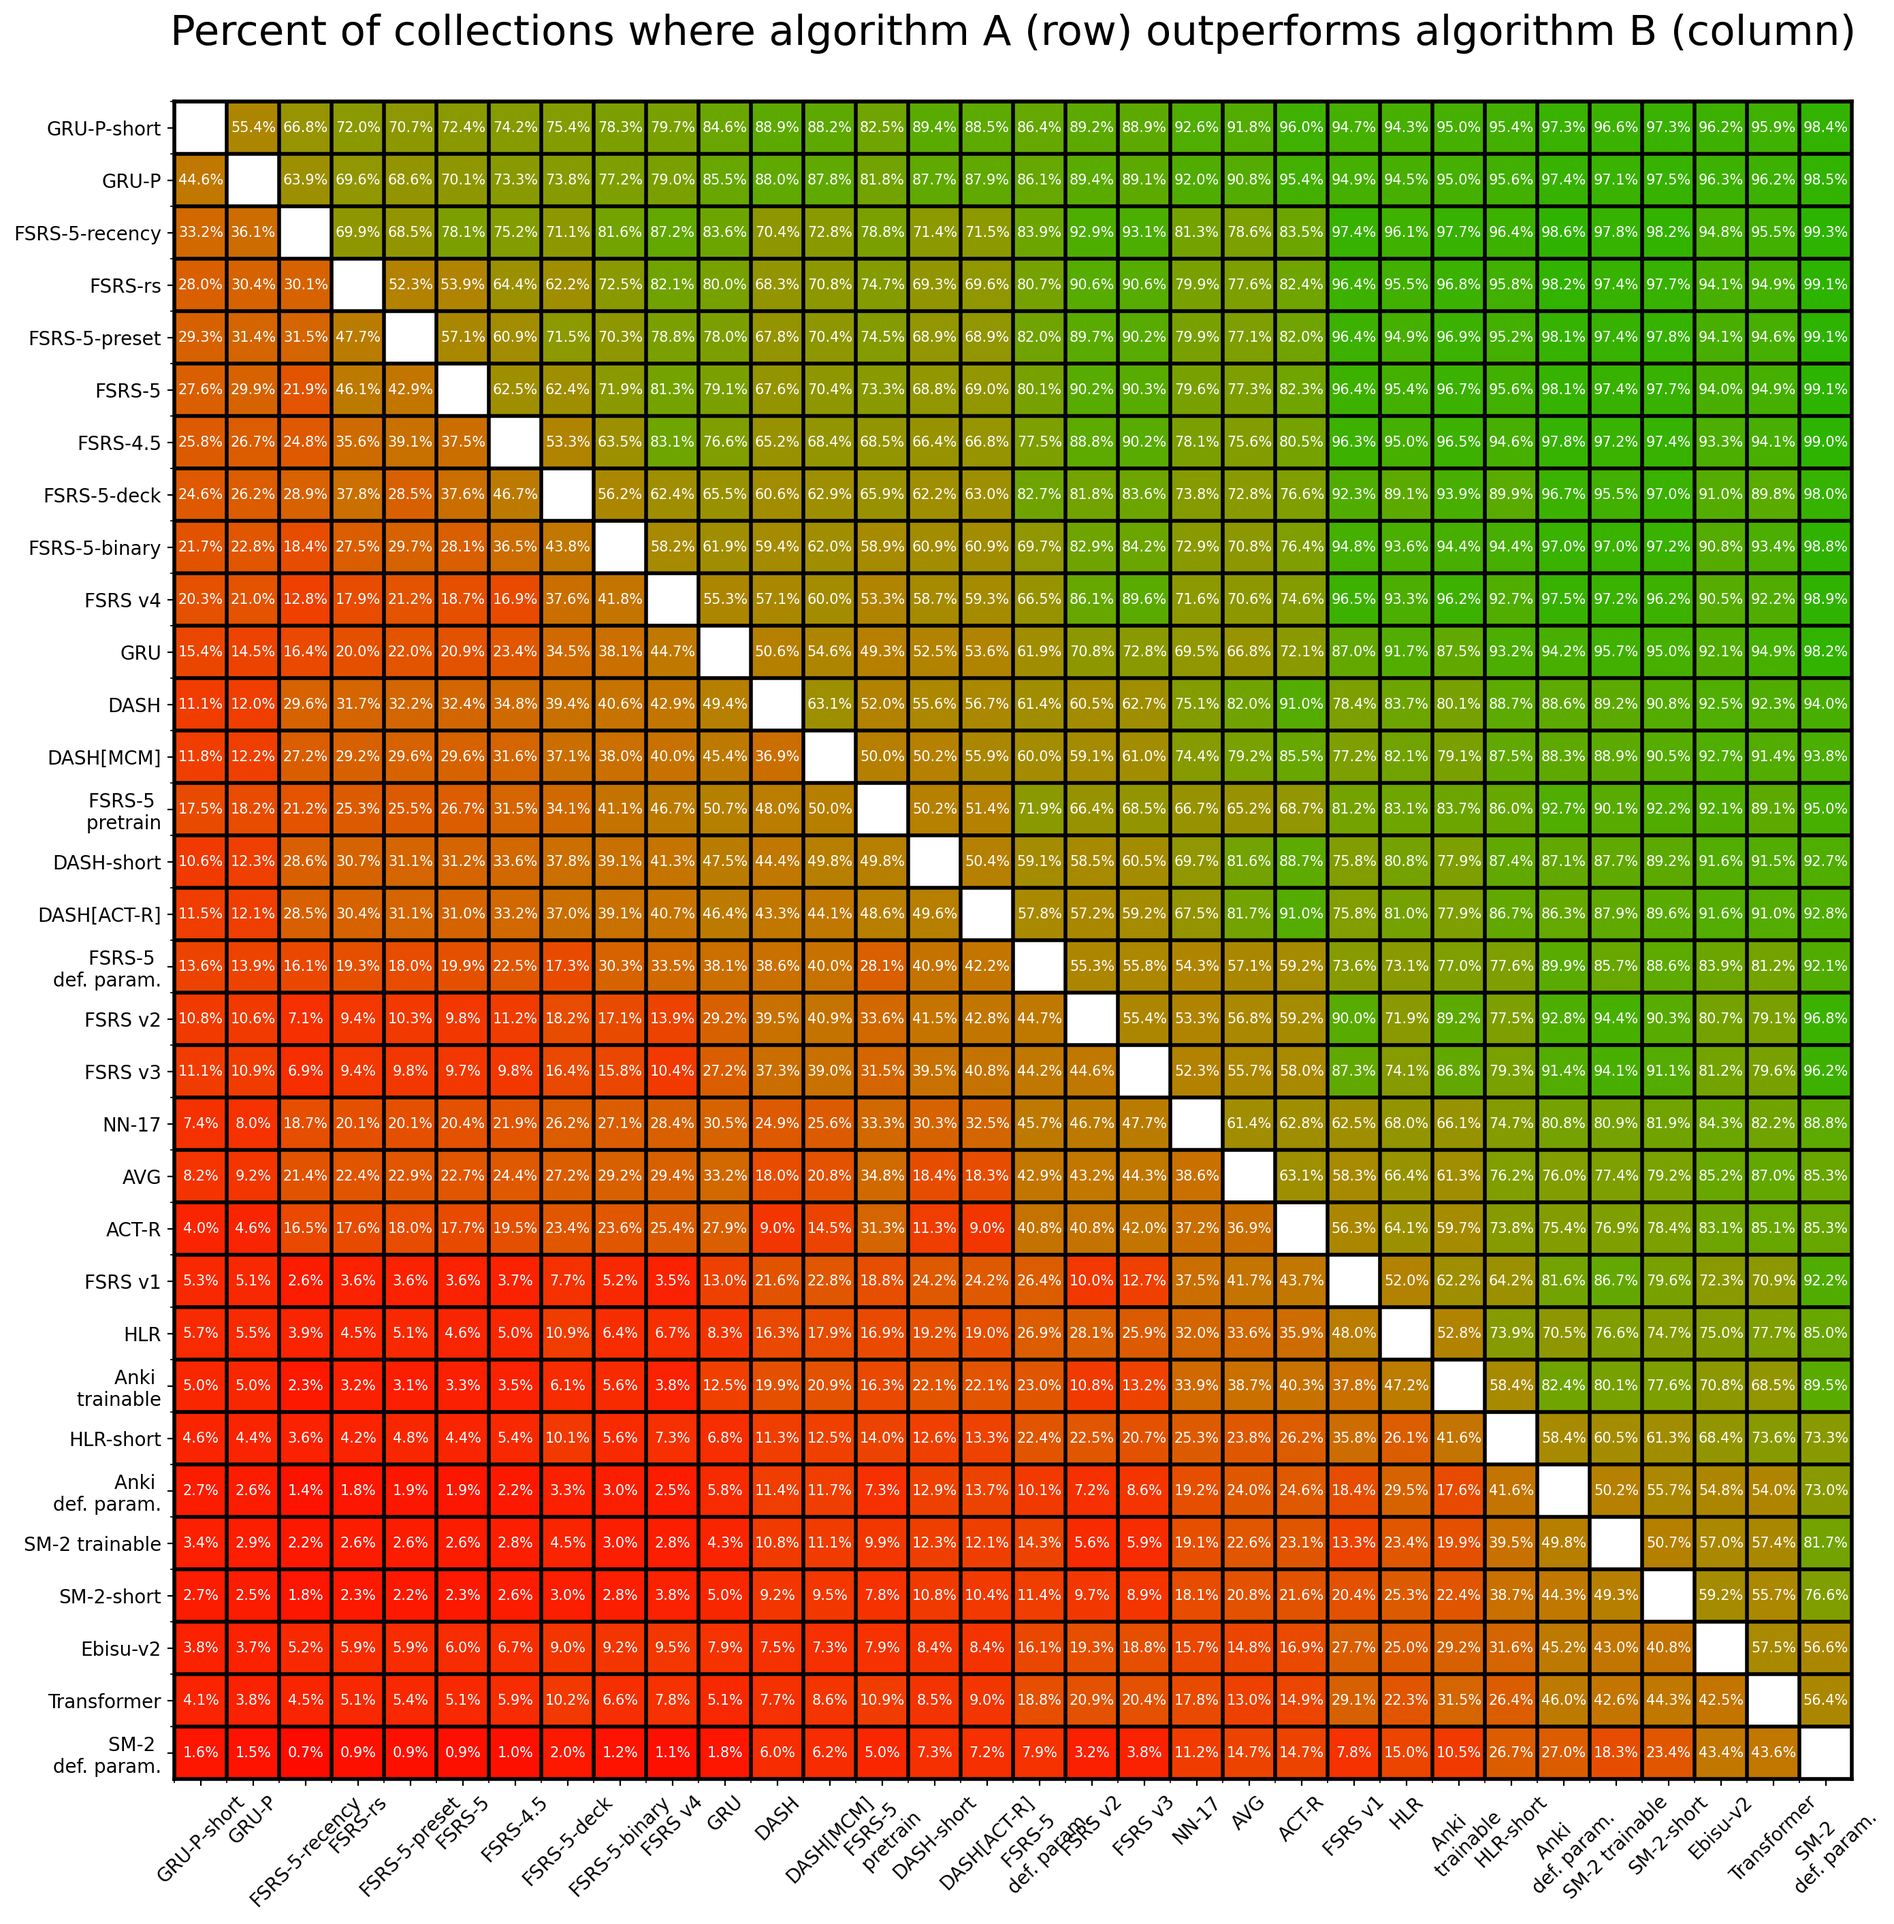
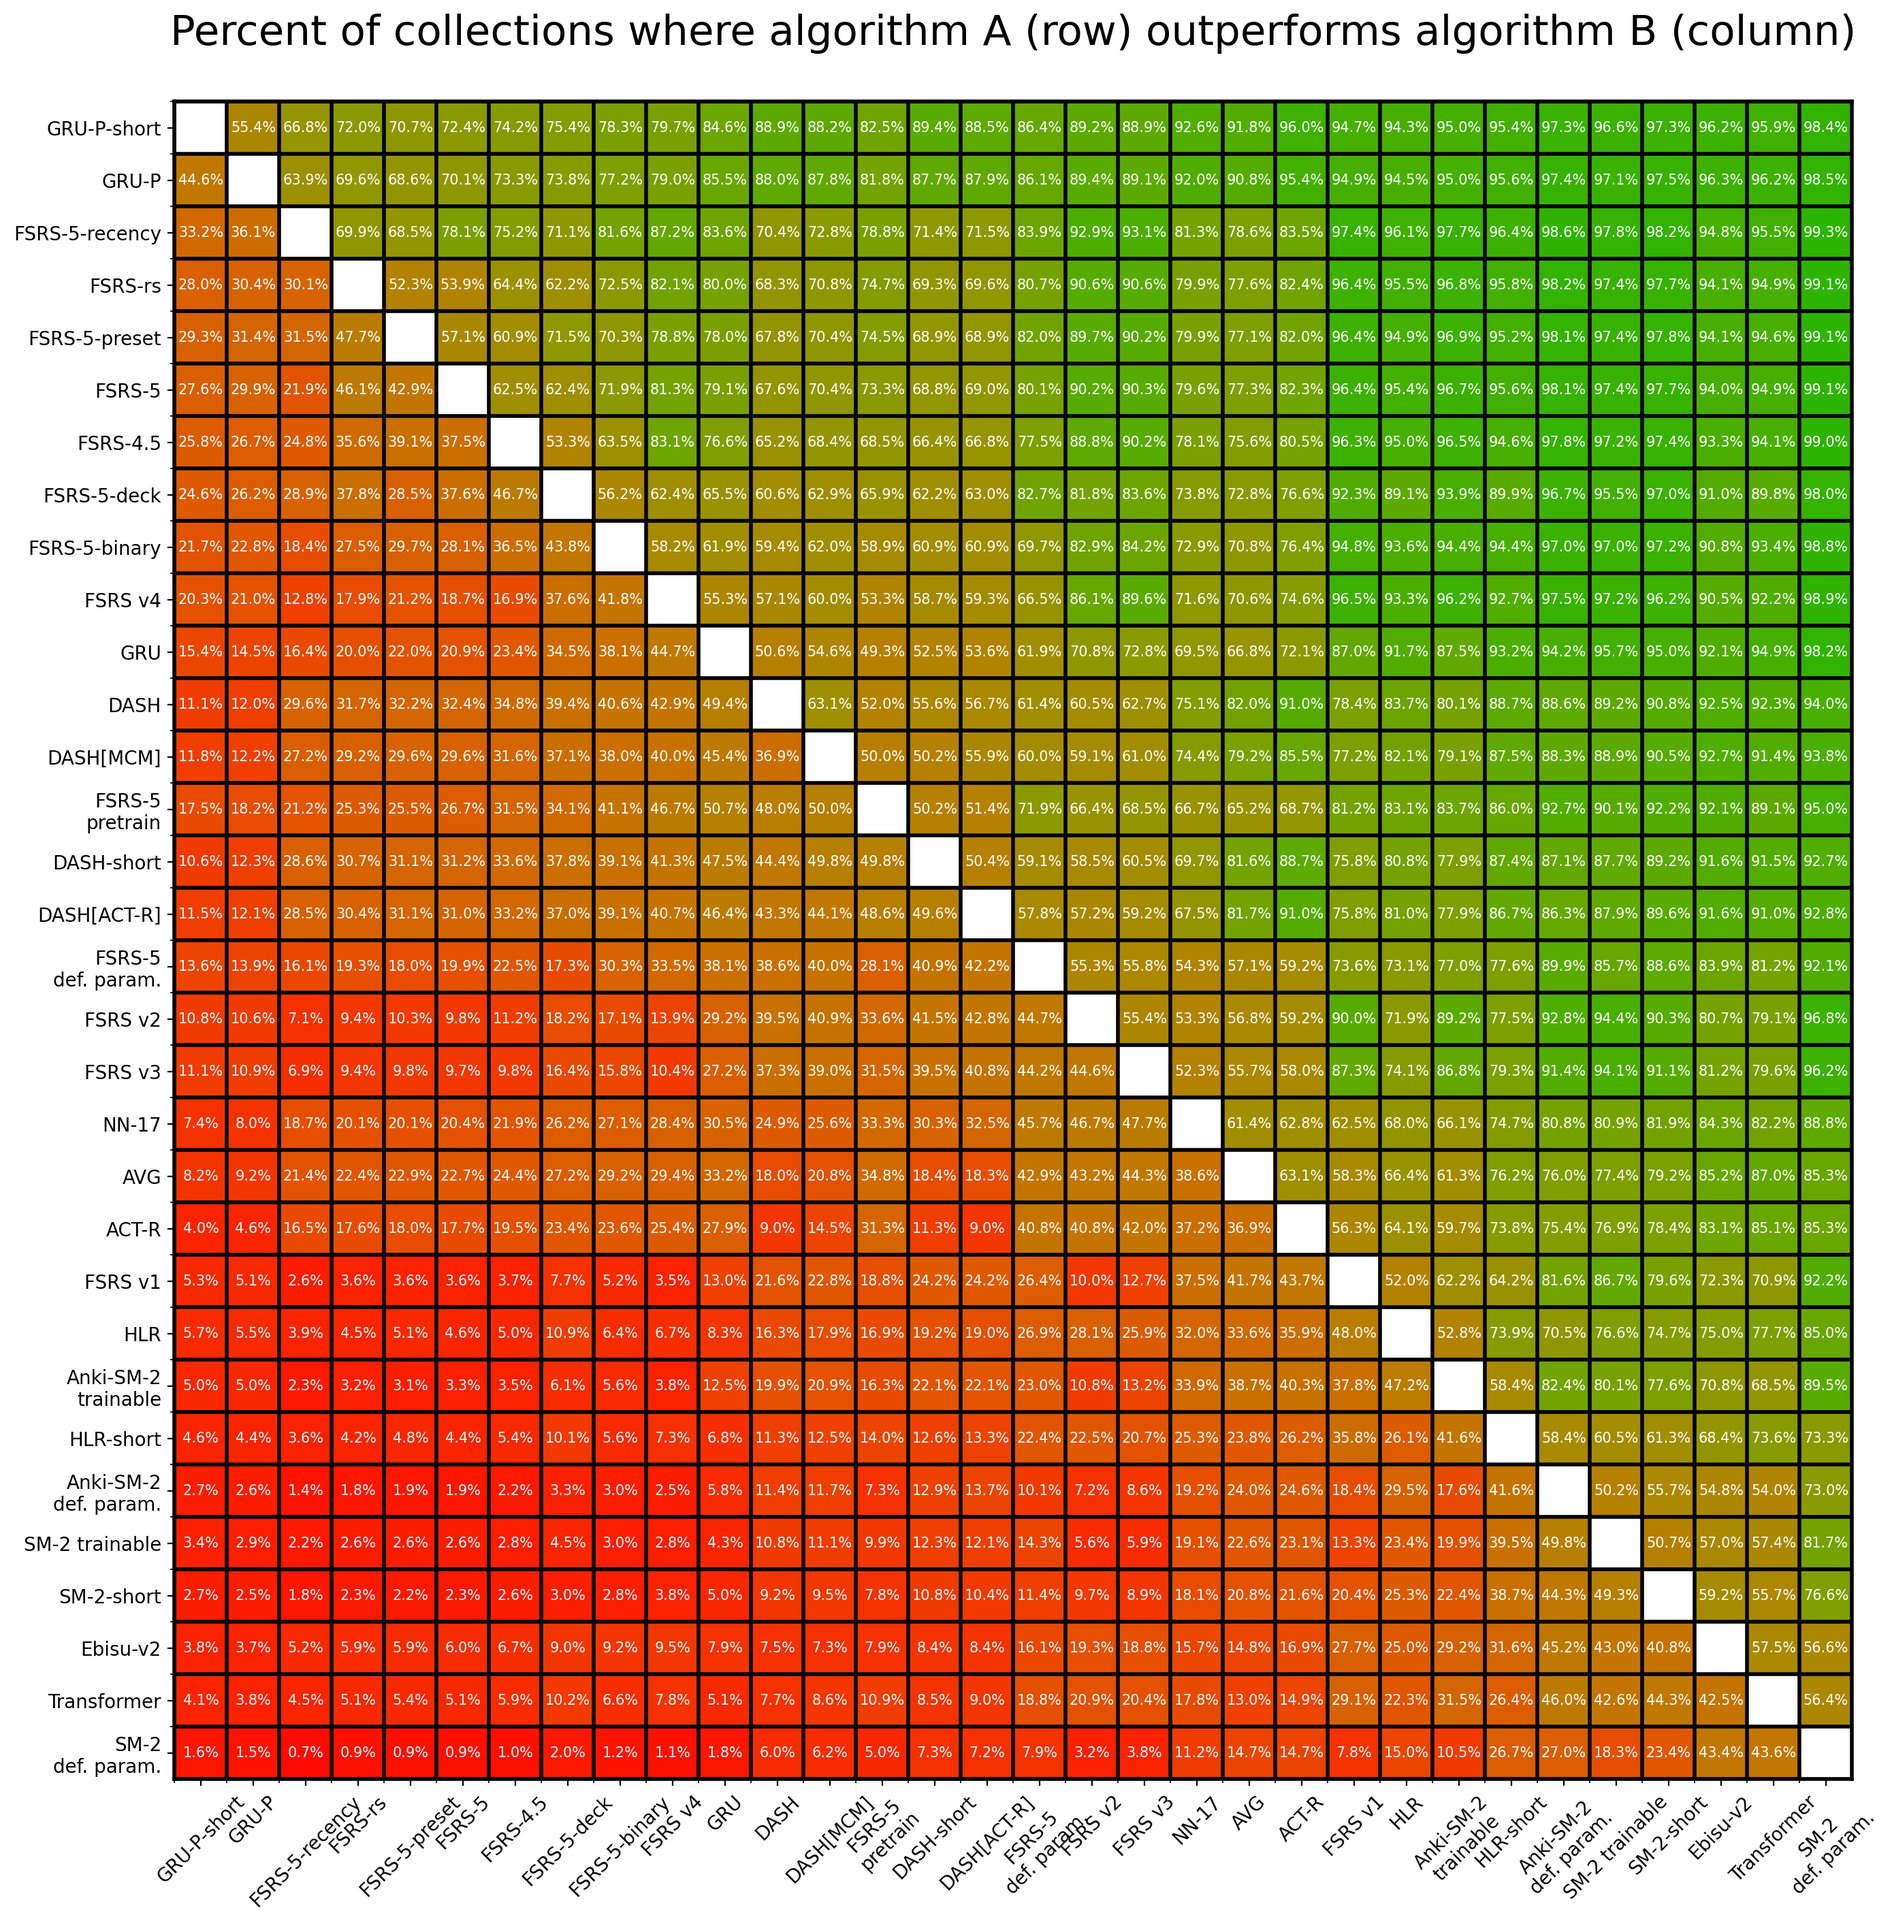
update plots

diff --git a/significance_table.py b/significance_table.py
@@ -202,15 +202,15 @@ if __name__ == "__main__":
     index_sm2 = models.index("SM2")
     index_sm2_train = models.index("SM2-trainable")
     index_sm2_short = models.index("SM2-short")
-    models[index_5_dry_run] = "FSRS-5 \n def. param."
-    models[index_anki_dry_run] = "Anki \n def. param."
-    models[index_anki_train] = "Anki \n trainable"
-    models[index_5_pretrain] = "FSRS-5 \n pretrain"
+    models[index_5_dry_run] = "FSRS-5\ndef. param."
+    models[index_anki_dry_run] = "Anki-SM-2\ndef. param."
+    models[index_anki_train] = "Anki-SM-2\ntrainable"
+    models[index_5_pretrain] = "FSRS-5\npretrain"
     models[index_v4] = "FSRS v4"
     models[index_v3] = "FSRS v3"
     models[index_v2] = "FSRS v2"
     models[index_v1] = "FSRS v1"
-    models[index_sm2] = "SM-2 \n def. param."
+    models[index_sm2] = "SM-2\ndef. param."
     models[index_sm2_train] = "SM-2 trainable"
     models[index_sm2_short] = "SM-2-short"
 
